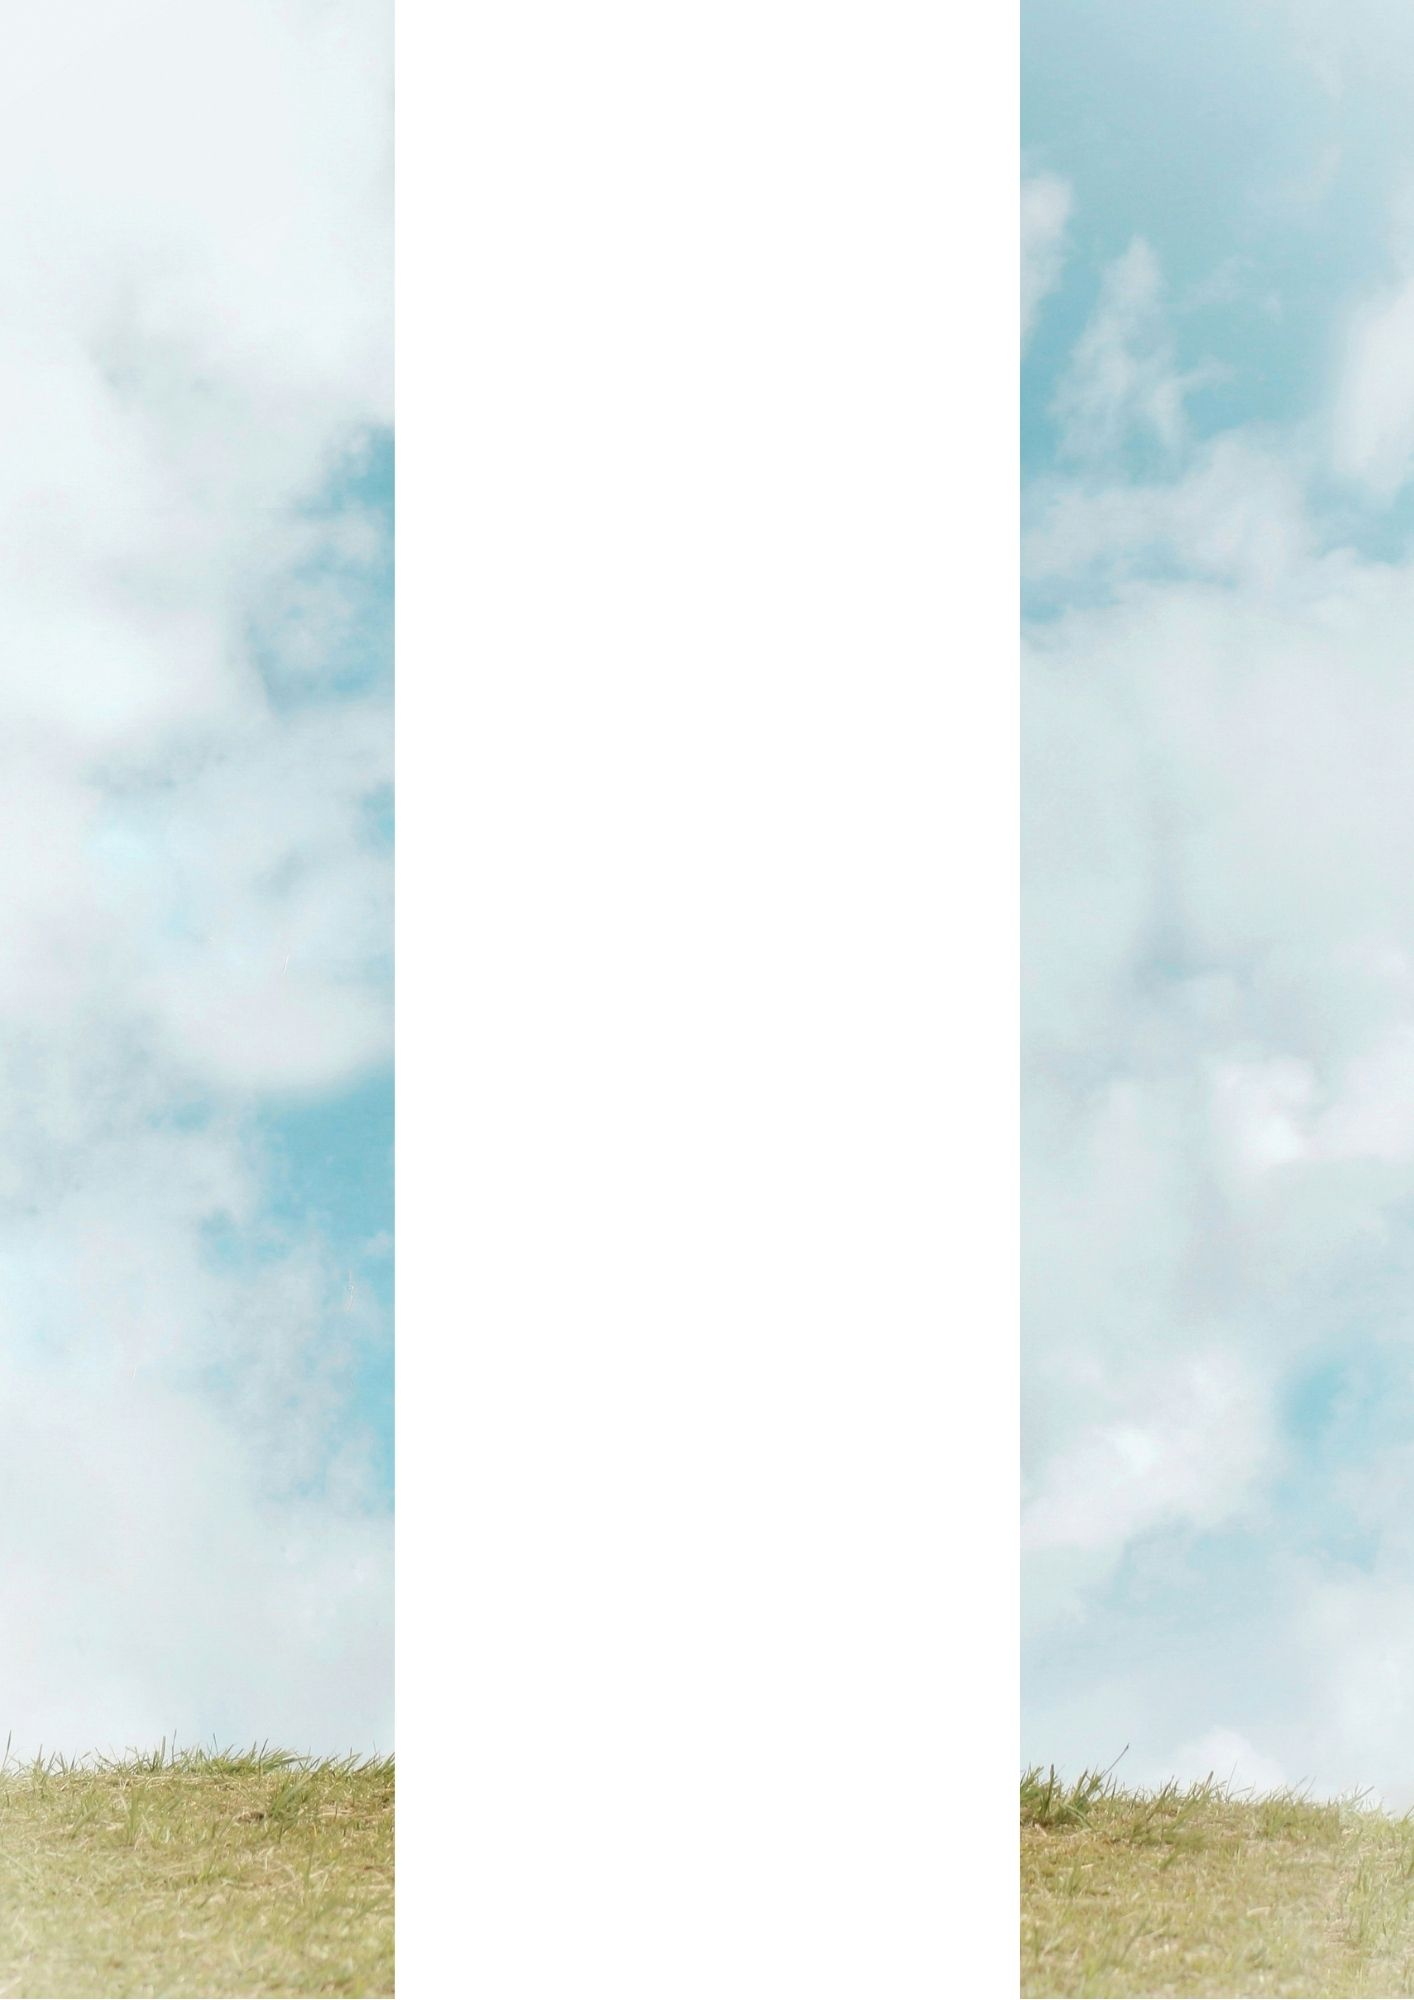
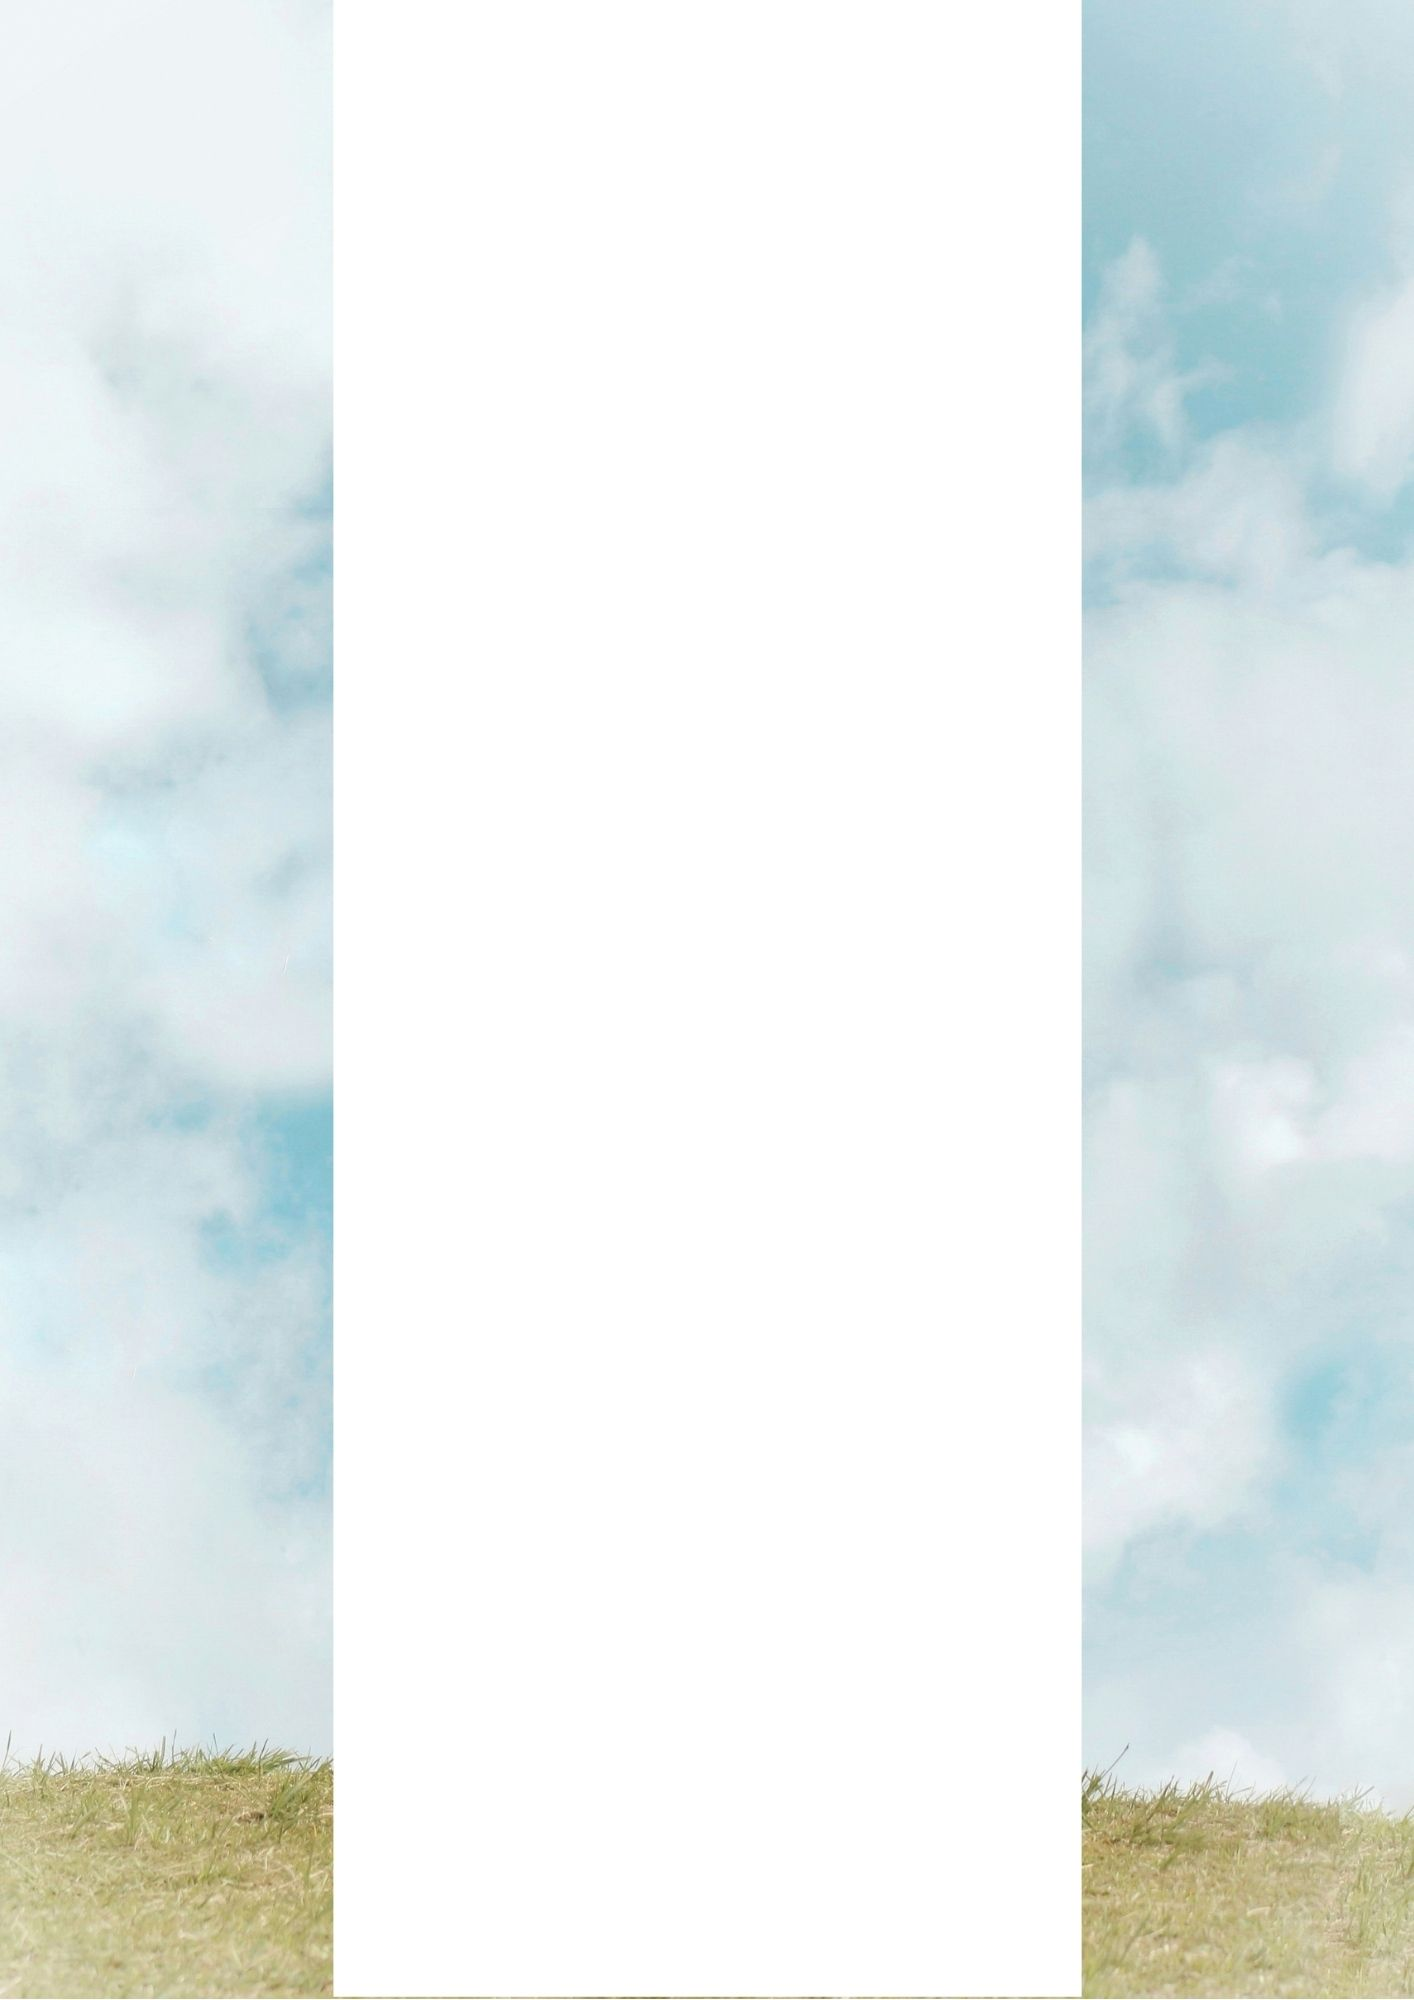
[Add]トップページに余白の追加、ボタンのサイズ変更

Changed region(s): [[0.2178, 0.0, 0.7779, 1.0]]

diff --git a/app/assets/stylesheets/homes.scss b/app/assets/stylesheets/homes.scss
@@ -8,23 +8,11 @@
   box-sizing: border-box;
 }
 
-.header {
-  display: none;
-}
-
-.footer {
-  display: none;
-}
-
 //トップページ
 .top-background {
-  // background-image: image-url("top-background-image.jpg");
   background-image: image-url("top.jpg");
   background-size: cover;
   background-position: bottom;
-  // height: 400px;
-  // background-size: cover;
-  // background-position: bottom;
   background-color: rgba( 255, 255, 255, 0.4);
   background-blend-mode: lighten;
 }
@@ -39,16 +27,15 @@
   padding-bottom: 100px;
   text-align: center;
   align-items: center;
-  // background-color: #fff;
 }
 
 //(ここから　サイトの説明部分テンプレート)
 .top-message-subtitle {
-  padding-top: 50px;
+  padding-top: 60px;
 }
 
 .top-message-description-title {
-  padding-top: 30px;
+  padding-top: 50px;
   font-size: 16px;
 }
 
@@ -59,6 +46,7 @@
 
 .top-message-title_description {
   padding-top: 60px;
+  padding-bottom: 60px;
   font-size: 16px;
 }
 //(ここまで)
@@ -67,16 +55,17 @@
 .access-buttons {
   display: flex;
   justify-content: center;
-  padding: 50px;
+  padding-bottom: 20px;
 }
 
 .access-button {
   height: 100px;
-  width: 230px;
+  width: 240px;
   line-height: 100px;
-  padding: 0 auto;
+  padding: 20px auto;
   margin: 10px;
-  border-radius: 50px;
+  border-radius: 15px 15px;
+  overflow: hidden;
 }
 
 .access-button-about,
@@ -85,9 +74,18 @@
 .access-button-guest
 {
   height: 100px;
-  width: 230px;
+  width: 240px;
   padding: 0 auto;
-  border-radius: 50px;
+  border-radius: 15px 15px;
+  overflow: hidden;
+}
+
+.access-button-about:hover,
+.access-button-signup:hover,
+.access-button-signin:hover,
+.access-button-guest:hover
+{
+  border-color: #fff;
 }
 //(ここまで)
 

diff --git a/app/assets/stylesheets/application.scss b/app/assets/stylesheets/application.scss
@@ -69,6 +69,7 @@ header > :first-child {
   border-radius: 15%;
 }
 
+.header-button-my_page,
 .header-button-post,
 .header-button-favorite,
 .header-button-logout
